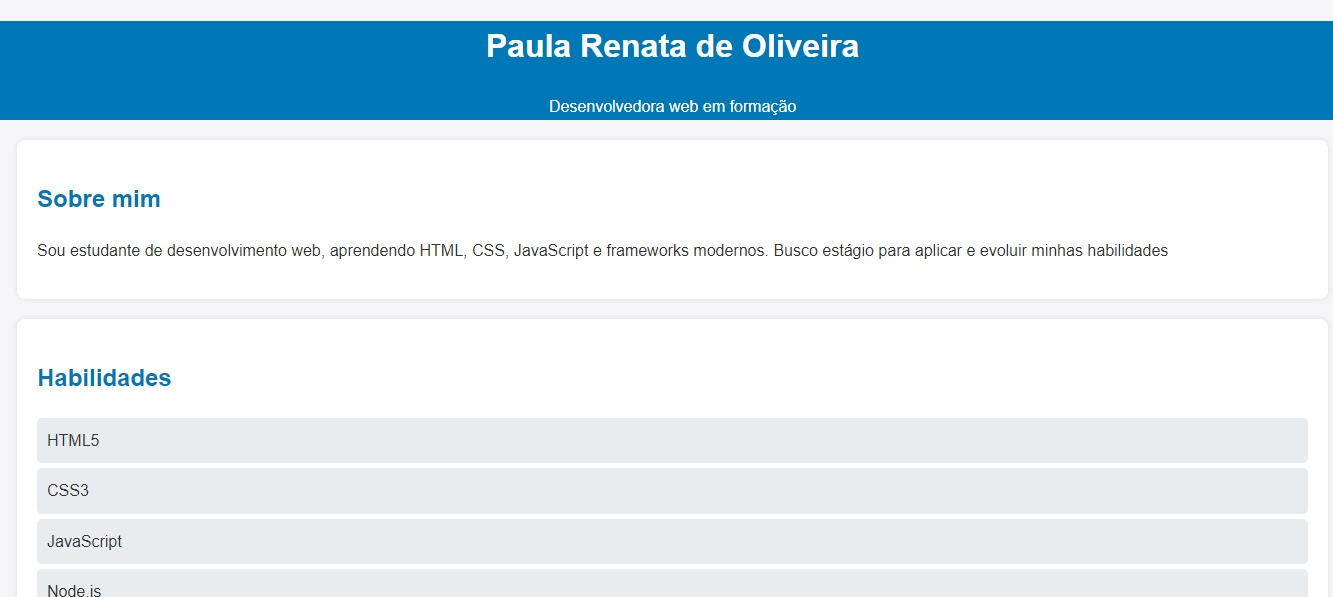
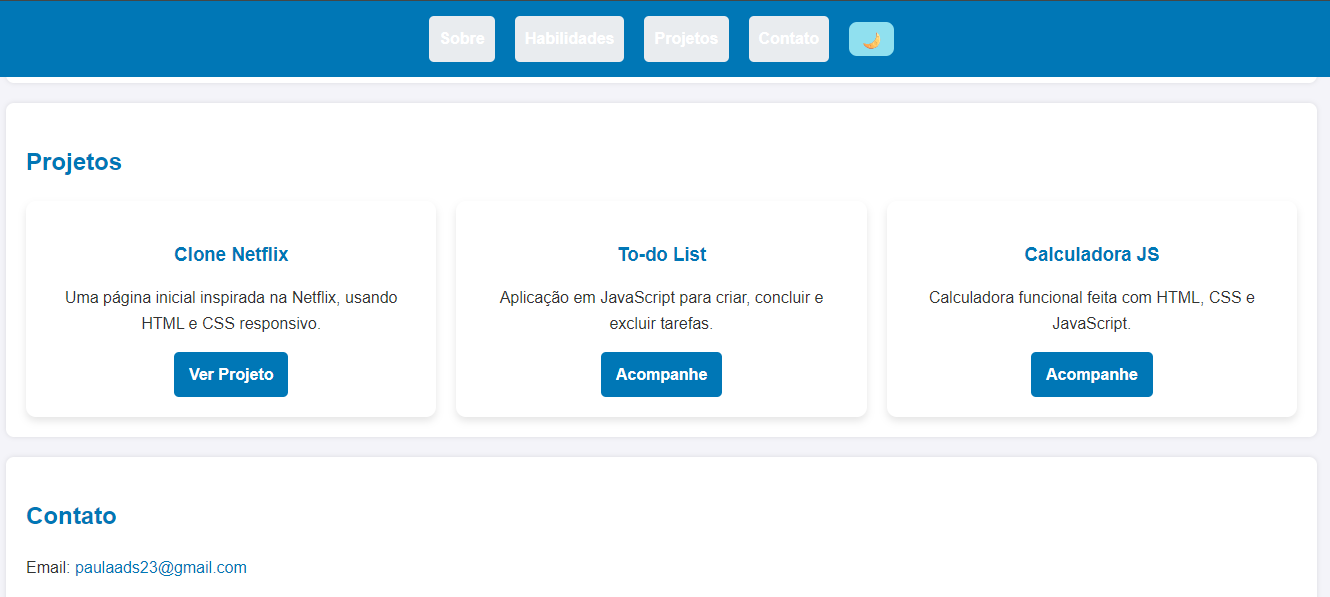
Atualização de demosntração

diff --git a/index.html b/index.html
@@ -8,7 +8,6 @@
     <link rel="stylesheet" href="style.css" />
   </head>
   <body>
-
     <!--Navbar fixa-->
 
     <nav>
@@ -19,9 +18,9 @@
         <li><a href="#contato">Contato</a></li>
       </ul>
       <!-- Botão de dark mode-->
-       <button id="darkModeToggle">🌙</button>
+      <button id="darkModeToggle">🌙</button>
     </nav>
-    
+
     <!--header -->
     <header>
       <h1>Paula Renata de Oliveira</h1>
@@ -53,10 +52,27 @@
     <!--Projetos-->
     <section id="projetos">
       <h2>Projetos</h2>
-      <p>Aqui você poderá ver meus projetos futuramente</p>
-      <ul>
-        <li><a href="#">Portfólio Pessoal</a></li>
-      </ul>
+      <div class="projetos-container">
+        <div class="card">
+          <h3>Clone Netflix</h3>
+          <p>
+            Uma página inicial inspirada na Netflix, usando HTML e CSS
+            responsivo.
+          </p>
+          <a href="#" target="_blank">Ver Projeto</a>
+        </div>
+
+        <div class="card">
+          <h3>To-do List</h3>
+          <p>Aplicação em JavaScript para criar, concluir e excluir tarefas.</p>
+          <a href="https://paulaads.github.io/todo-list/">Acompanhe</a>
+        </div>
+        <div class="card">
+          <h3>Calculadora JS</h3>
+          <p>Calculadora funcional feita com HTML, CSS e JavaScript.</p>
+          <a href="https://paulaads.github.io/CalculadoraJS/">Acompanhe</a>
+        </div>
+      </div>
     </section>
 
     <!--Contato-->
@@ -81,13 +97,23 @@
     <footer>
       <p>© 2025 - Paula Renata de Oliveira</p>
     </footer>
+
+    <!--Script Dark Mode-->
+    <script>
+      const toggle = document.getElementById('darkModeToggle');
+
+      //mantém preferencia salva no navegador
+      if (localStorage.getItem('theme') === 'dark') {
+        document.body.classList.add('dark-mode');
+        toggle.textContent = '☀';
+      }
+
+      toggle.addEventListener('click', () => {
+        document.body.classList.toggle('dark-mode');
+        const isDark = document.body.classList.contains('dark-mode');
+        toggle.textContent = isDark ? '☀' : '🌙';
+        localStorage.setItem('theme', isDark ? 'dark' : 'light');
+      });
+    </script>
   </body>
-  <script>
-    const toggle = document.getElementById('darkModeToggle');
-    toggle.addEventListener('click', () => {
-      document.body.classList.toggle('dark-mode');
-      toggle.textContent = document.body.classList.contains('dark-mode') ? '☀' : 
-'🌙';
-    });
-  </script>  
 </html>

diff --git a/style.css b/style.css
@@ -56,21 +56,25 @@ footer {
   margin-top: 20px;
 }
 
+/* Nav fixa*/
 nav {
   position: fixed;
   top: 0;
-  width:100%;
+  width: 100%;
   background: #0077b6;
   padding: 10px 0;
   z-index: 1000;
+  display: flex;
+  justify-content: center;
+  align-items: center;
 }
 
 nav ul {
   list-style: none;
-  display:flex;
+  display: flex;
   justify-content: center;
   gap: 20px;
-  margin:0;
+  margin: 0;
   padding: 0;
 }
 
@@ -88,7 +92,8 @@ nav ul li a:houver {
 /*Compensar o espaço da navbar */
 
 header {
-  padding-top: 70px;
+  padding-top: 80px;
+  text-align: center;
 }
 
 /* Botão Dark Mode */
@@ -101,7 +106,8 @@ header {
   border-radius: 8px;
   cursor: pointer;
   font-size: 18px;
- }
+  transition: none;
+}
 
 #darkModeToggle:houver {
   background: #48cae4;
@@ -111,6 +117,11 @@ header {
 body.dark-mode {
   background: #121212;
   color: #f5f5f5;
+}
+
+body.dark-mode section {
+  background: #1e1e1e;
+  box-shadow: 0 0 5px rgba(255, 255, 255, 0.1);
 }
 
 body.dark-mode nav {
@@ -123,4 +134,72 @@ body.dark-mode nav ul li a {
 body.dark-mode #darkModeToggle {
   background: #222;
   color: #f5f5f5;
+}
+
+body.dark-mode footer {
+  background: #222;
+}
+
+/*Projetos*/
+
+.projetos-container {
+  display: grid;
+  grid-template-columns: repeat(auto-fit, minmax(280px, 1fr));
+  gap: 20px;
+}
+
+.card {
+  background: white;
+  border-radius: 10px;
+  padding: 20px;
+  box-shadow: 0 4px 8px rgba(0, 0, 0, 0.1);
+  text-align: center;
+  transition: transform 0.3s, box-shadow 0.3s;
+}
+
+.card h3 {
+  margin-bottom: 10px;
+  color: #0077b6;
+}
+
+.card p {
+  margin-bottom: 15px;
+}
+
+.card a {
+  display: inline-block;
+  padding: 10px 15px;
+  background: #0077b6;
+  color: white;
+  border-radius: 5px;
+  text-decoration: none;
+  font-weight: bold;
+  transition: cubic-bezier(0.3s);
+}
+
+.card a:houver {
+  background: #48cae4;
+}
+
+.card:hover {
+  transform: translateY(-5px);
+  box-shadow: 0 6px 12px rgba(0, 0, 0, 0.15);
+}
+
+/*dark mode nos cards */
+body.dark-mode .card {
+  background: #1e1e1e;
+  box-shadow: 0 4px 8px rgba(255, 255, 255, 0.05);
+}
+body.dark-mode .card h3 {
+  color: #90e0ef;
+}
+
+body.dark-mode .card a {
+  background: #222;
+  color: #f5f5f5;
+}
+
+body.dark-mode .card a:hover {
+  background: #48cae4;
 }
